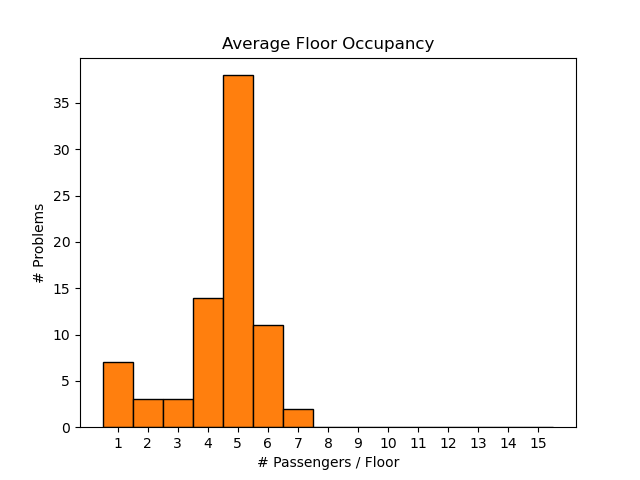
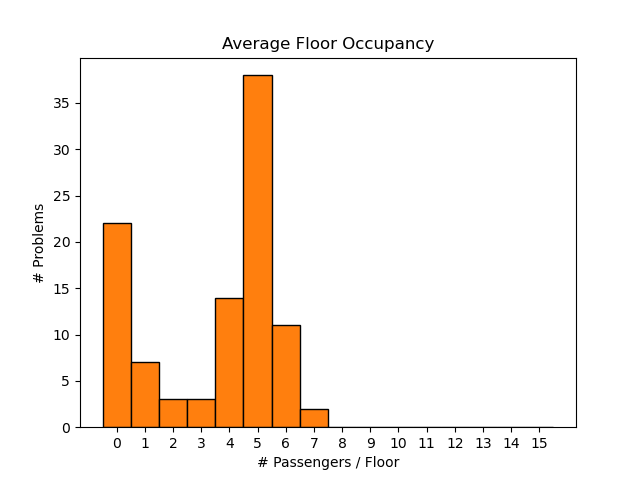
Implementing script for analyzing generated problems #12 - Added mic histograms for avg. distance

Changed region(s): [[0.2188, 0.1562, 0.875, 0.9375], [0.1562, 0.4375, 0.25, 0.9062], [0.1562, 0.9062, 0.1875, 0.9375]]

diff --git a/src/scripts/analyze_generated_problems.py b/src/scripts/analyze_generated_problems.py
@@ -589,7 +589,6 @@ def _get_average_box_distance(num_obj: int, init_atoms: tuple, goal_atoms: tuple
     # Return the average distance.
     return total_distance / n
 
-
 def create_histograms_sokoban(args, pddl_problems, consistent_problems_info):
     """
     For sokoban, we measure the number of boxes and walls, and the average box distance (see _get_average_box_distance for more info).
@@ -648,15 +647,90 @@ def create_histograms_sokoban(args, pddl_problems, consistent_problems_info):
 
     print("> Created histograms for sokoban")
 
+def _get_average_passenger_distance(objects: tuple, init_atoms: tuple, goal_atoms: tuple) -> float:
+    """
+    For miconic, measure the average passenger distance for the problem given by the input parameters.
+    For each passenger, we calculate its distance as the number of floors between its initial and goal locations.
+    """
+    # Build mapping for passenger initial floors (from init_atoms).
+    init_at = {}
+    for atom in init_atoms:
+        pred, args = atom
+        if pred == "at" and len(args) >= 2:
+            subject, floor = args[0], args[1]
+            if objects[subject] == "passenger":
+                init_at[subject] = floor
+
+    # Build mapping for passenger goal floors (from goal_atoms).
+    goal_at = {}
+    for atom in goal_atoms:
+        pred, args = atom
+        if pred == "at" and len(args) >= 2:
+            subject, floor = args[0], args[1]
+            goal_at[subject] = floor
+
+    # Collect all floors from the objects (those whose type is "floor").
+    floors = [i for i, typ in enumerate(objects) if typ == "floor"]
+
+    # Build ordering using the "above" atoms from init_atoms.
+    # For each (above, (f1, f2)) atom, f1 is directly above f2.
+    next_floor = {}  # mapping: given floor f, next_floor[f] is the floor immediately above f.
+    prev_floor = {}  # mapping: for floor f, prev_floor[f] is the floor immediately below f.
+    for atom in init_atoms:
+        pred, args = atom
+        if pred == "above" and len(args) >= 2:
+            f_above, f_below = args[0], args[1]
+            next_floor[f_below] = f_above
+            prev_floor[f_above] = f_below
+
+    # Determine the bottom floor: the one that does not have any floor below it.
+    bottom_floor = None
+    for f in floors:
+        if f not in prev_floor:
+            bottom_floor = f
+            break
+    # If no ordering is found via "above", fallback to natural order.
+    if bottom_floor is None:
+        ordered_floors = sorted(floors)
+    else:
+        ordered_floors = [bottom_floor]
+        current = bottom_floor
+        while current in next_floor:
+            current = next_floor[current]
+            ordered_floors.append(current)
+
+    # Create a mapping from floor id to its position in the ordered list.
+    floor_pos = {floor: pos for pos, floor in enumerate(ordered_floors)}
+
+    # Compute the Manhattan distance (in number of floors) for each passenger.
+    total_distance = 0
+    count = 0
+    for obj_id, typ in enumerate(objects):
+        if typ != "passenger":
+            continue
+        # Only process if we have both initial and goal information.
+        if obj_id in init_at and obj_id in goal_at:
+            init_floor = init_at[obj_id]
+            goal_floor = goal_at[obj_id]
+            if init_floor in floor_pos and goal_floor in floor_pos:
+                d = abs(floor_pos[init_floor] - floor_pos[goal_floor])
+                total_distance += d
+                count += 1
+
+    return total_distance / count if count > 0 else 0.0
+
 def create_histograms_miconic(args, pddl_problems, consistent_problems_info):
     """
     For miconic, we measure the number of floors, the number of passengers and the average number of passengers per floor (occupancy).
+    We also calculate the average distance (num floors) that passengers have to travel to get to their init to goal locations
+    (see _get_average_passenger_distance for more info).
 
     NOTE: this info is the same in the init and goal state (corresponds to objects)!!!
     """
     num_floors = [x['num_objects']['floor'] for x in consistent_problems_info.values()]
     num_passengers = [x['num_objects']['passenger'] for x in consistent_problems_info.values()]
     average_occupancy = [x['num_objects']['passenger'] / x['num_objects']['floor'] for x in consistent_problems_info.values()]
+    avg_passenger_distance = [_get_average_passenger_distance(x._initial_state.objects, tuple(x._initial_state._atoms), x.goal) for x in pddl_problems.values()]
 
     color = 'tab:orange' if args.init_policy=='PPO' else 'tab:blue'
     model = 'NeSIG' if args.init_policy=='PPO' else 'adhoc'
@@ -692,15 +766,29 @@ def create_histograms_miconic(args, pddl_problems, consistent_problems_info):
     # Histogram for average_occupancy
     min_val = 1
     max_val = 15
-    bins = np.arange(min_val - 0.5, max_val + 1.5, 1)
+    bins = np.arange(min_val - 1.5, max_val + 1.5, 1)
 
     plt.figure()
     plt.hist(average_occupancy, bins=bins, edgecolor='black', color=color)
     plt.xlabel("# Passengers / Floor")
     plt.ylabel("# Problems")
     plt.title("Average Floor Occupancy")
-    plt.xticks(np.arange(min_val, max_val+1))
+    plt.xticks(np.arange(min_val-1, max_val+1))
     plt.savefig(f"histogram_miconic_{model}_average_occupancy.png")
+    plt.close()
+
+    # Histogram for avg_passenger_distance
+    min_val = 1
+    max_val = 40
+    bins = np.arange(min_val - 1.5, max_val + 1.5, 1)
+
+    plt.figure()
+    plt.hist(avg_passenger_distance, bins=bins, edgecolor='black', color=color)
+    plt.xlabel("Avg. Distance")
+    plt.ylabel("# Problems")
+    plt.title("Average Passenger Distance")
+    plt.xticks(np.arange(min_val-1, max_val+1, 2))
+    plt.savefig(f"histogram_miconic_{model}_passenger_distance.png")
     plt.close()
 
     print("> Created histograms for miconic")
